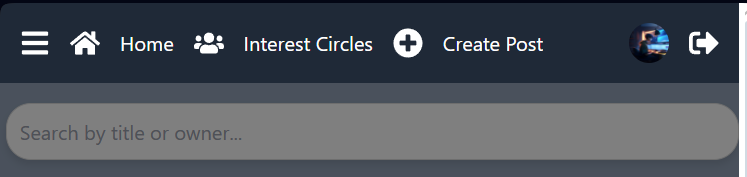
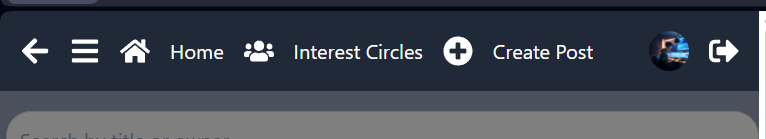
fixed the back button error by adding it to navbar on mobiles

diff --git a/src/components/Sidebar.js b/src/components/Sidebar.js
@@ -1,4 +1,4 @@
-import { useState } from 'react';
+import React, { useState } from 'react';
 import {
   FaUserCircle,
   FaHome,
@@ -8,8 +8,9 @@ import {
   FaSignInAlt,
   FaUserPlus,
   FaPlusCircle,
+  FaArrowLeft, // Back arrow icon for mobile view
 } from 'react-icons/fa';
-import { NavLink } from 'react-router-dom';
+import { NavLink, useHistory } from 'react-router-dom'; 
 import axios from 'axios';
 import useSidebar from '../hooks/useSidebar';
 import { useCurrentUser, useSetCurrentUser } from '../context/CurrentUserContext';
@@ -17,38 +18,57 @@ import LogoutModal from './LogoutModal';
 import styles from '../styles/Sidebar.module.css';
 
 const Sidebar = ({ isOpen = false, isMobile = false }) => {
-  // Manage sidebar open/close and mobile view states using the custom hook
+  // Use custom hook for sidebar state management
   const { isSidebarOpen, toggleSidebar, isMobileView, sidebarRef } = useSidebar(isOpen, isMobile);
 
-  const currentUser = useCurrentUser(); // Get the current user
-  const setCurrentUser = useSetCurrentUser(); // Setter to update the current user state
+  const currentUser = useCurrentUser(); // Get the current user from context
+  const setCurrentUser = useSetCurrentUser(); // Setter to update the current user
   const [isLogoutModalOpen, setIsLogoutModalOpen] = useState(false); // Modal state for logout confirmation
+  const history = useHistory();
 
-  // Handle user sign out
+  /**
+   * Navigate back to the previous page (used on mobile view).
+   */
+  const handleBack = () => {
+    history.goBack();
+  };
+
+  /**
+   * Log the user out of the application and clear the current user context.
+   */
   const handleSignOut = async () => {
     try {
-      await axios.post('dj-rest-auth/logout/'); // API call to log out the user
-      setCurrentUser(null); // Reset current user state
+      await axios.post('dj-rest-auth/logout/');
+      setCurrentUser(null); // Clear current user on successful logout
     } catch (err) {
-      console.error('Logout error:', err); // Log any errors during sign out
+      console.error('Logout error:', err); // Log any errors
     }
   };
 
-  // Confirm logout action
+  /**
+   * Confirm the logout and trigger the logout flow.
+   */
   const handleLogoutConfirm = () => {
     handleSignOut();
-    setIsLogoutModalOpen(false); // Close the modal after logout
+    setIsLogoutModalOpen(false); // Close the logout modal
   };
 
-  const openLogoutModal = () => setIsLogoutModalOpen(true); // Open the logout modal
-  const handleModalClose = () => setIsLogoutModalOpen(false); // Close the logout modal
+  /**
+   * Toggle the logout modal open state.
+   */
+  const openLogoutModal = () => setIsLogoutModalOpen(true);
+  const handleModalClose = () => setIsLogoutModalOpen(false);
 
-  // Close the sidebar when a navigation link is clicked (only in mobile view)
+  /**
+   * Handle closing the sidebar on mobile view when a link is clicked.
+   */
   const handleNavLinkClick = () => {
     if (isMobileView && isSidebarOpen) toggleSidebar();
   };
 
-  // Utility function to render navigation links conditionally
+  /**
+   * Renders a navigation link if the condition is met (e.g., user is authenticated).
+   */
   const renderNavLink = (to, icon, label, condition = true) =>
     condition && (
       <li className="navItem flex items-center justify-center">
@@ -66,7 +86,7 @@ const Sidebar = ({ isOpen = false, isMobile = false }) => {
 
   return (
     <>
-      {/* Overlay for mobile view when sidebar is open */}
+      {/* Sidebar overlay for mobile view */}
       {isSidebarOpen && isMobileView && (
         <div
           onClick={toggleSidebar}
@@ -82,13 +102,20 @@ const Sidebar = ({ isOpen = false, isMobile = false }) => {
           ? 'fixed top-0 left-0 right-0 h-16 flex items-center justify-between'
           : `fixed top-0 right-0 h-screen ${isSidebarOpen ? 'w-64 sidebarOpen' : 'w-16 sidebarClosed'}`}`}
       >
-        {/* Sidebar toggle button */}
         <div className="flex items-center">
+          {/* Back button for mobile view */}
+          {isMobileView && (
+            <button onClick={handleBack} className="text-white mr-4" aria-label="Go back">
+              <FaArrowLeft size={24} />
+            </button>
+          )}
+
+          {/* Toggle sidebar button */}
           <button onClick={toggleSidebar} className="text-white" aria-label={isSidebarOpen ? 'Close sidebar' : 'Open sidebar'}>
             <FaBars size={24} />
           </button>
 
-          {/* Mobile view links when sidebar is open */}
+          {/* Navigation links for mobile view when sidebar is open */}
           {isMobileView && isSidebarOpen && (
             <div className="flex space-x-4 ml-4">
               {renderNavLink('/', <FaHome size={24} />, 'Home')}
@@ -100,18 +127,14 @@ const Sidebar = ({ isOpen = false, isMobile = false }) => {
           )}
         </div>
 
-        {/* Desktop view sidebar content */}
+        {/* Sidebar content for desktop view */}
         {!isMobileView && (
           <div className="flex flex-col items-center mt-8 flex-grow">
             <div className="text-white flex flex-col items-center mb-8">
-              {/* User profile image or icon */}
+              {/* Display user profile information */}
               {currentUser ? (
                 <>
-                  <NavLink
-                    to={`/profile/${currentUser.pk}`}
-                    className="text-white"
-                    aria-label={`Profile of ${currentUser.username}`}
-                  >
+                  <NavLink to={`/profile/${currentUser.pk}`} className="text-white" aria-label={`Profile of ${currentUser.username}`}>
                     {currentUser.profile_image ? (
                       <img
                         src={currentUser.profile_image}
@@ -145,7 +168,6 @@ const Sidebar = ({ isOpen = false, isMobile = false }) => {
         {/* Logout button */}
         {currentUser && (
           <div className={`text-white ${isMobileView ? 'flex items-center space-x-4 ml-auto' : 'absolute bottom-4 left-0 right-0 flex justify-center items-center'}`}>
-            {/* Mobile profile link */}
             {isMobileView && (
               <NavLink to={`/profile/${currentUser.pk}`} aria-label="User Profile">
                 {currentUser.profile_image ? (
@@ -160,7 +182,6 @@ const Sidebar = ({ isOpen = false, isMobile = false }) => {
               </NavLink>
             )}
 
-            {/* Logout button */}
             <button onClick={openLogoutModal} className="flex items-center" aria-label="Logout">
               <FaSignOutAlt size={24} />
               {!isMobileView && isSidebarOpen && <span className="ml-4">Logout</span>}

diff --git a/src/components/BackButton.js b/src/components/BackButton.js
@@ -13,7 +13,7 @@ const BackButton = () => {
   return (
     <button
       onClick={handleBack}
-      className={`${styles.backbtn} fixed top-4 left-4 p-2 bg-blue-600 text-white 
+      className={`${styles.backbtn} fixed top-3 left-4 p-2 bg-blue-600 text-white 
         rounded-full shadow-lg z-50 flex items-center justify-center bg-gray-800`}
       aria-label="Go back"
     >

diff --git a/src/styles/BackButton.module.css b/src/styles/BackButton.module.css
@@ -1,7 +1,7 @@
 .backbtn {
     padding: 10px;
-    boxShadow: 0 2px 4px rgba(0,0,0,0.2)
-}
+    box-shadow: 0 2px 4px rgba(0, 0, 0, 0.2);
+  }
 
 @media (max-width: 765px) {
 

diff --git a/README.md b/README.md
@@ -109,9 +109,8 @@ Tailwind CSS uses PurgeCSS to remove unused styles from the final build, resulti
   - Logged-in users can view the post owner's profile page by clicking on the top of the card.
   - Logged-in users can also like posts directly from the Feed Page. Liked posts will display as "Unliked" with a blue color to indicate their status.
 
-  ![Feed Page](docs/images/)
-  ![Post Card](docs/images/)
-  ![Like Button](docs/images/)
+  ![Feed Page](docs/images/post-list-feat.PNG)
+  ![Post Card](docs/images/post-card-feat.PNG)
 
 - **Profile Page**
   - The Profile Page displays the user's personal information:
@@ -179,7 +178,7 @@ Tailwind CSS uses PurgeCSS to remove unused styles from the final build, resulti
 - **Search Bar**
   - The SearchBar component is a customizable search input that allows users to search based on titles or owner names. It features a clear button that appears when a query is entered, enabling users to quickly reset their search filters.
 
-![Search Bar](docs/images/)
+![Search Bar](docs/images/search-bar-feat.PNG)
 
 - **Go Back Button**
   - The BackButton component is a fixed-position button that allows users to navigate to the previous page in their browser history. It features an arrow icon and is designed to be both accessible and intuitive.
@@ -275,6 +274,7 @@ Tailwind CSS uses PurgeCSS to remove unused styles from the final build, resulti
 6. **Pulling User’s Recent Posts and Likes**: I encountered difficulties retrieving a specific user's recent posts and recent likes for their profile page. Initially, the query was not pulling the correct data, but by creating custom fields in the serializer, I was able to resolve this issue. This approach allowed me to accurately display both recent posts and likes on the profile page, ensuring that the sections worked as intended.
 7. **Pagination on Categories**: Initially, the categories were paginated, and I was limited to displaying only 10 categories. I fixed this by fetching all the categories before rendering the dropdown, ensuring that users could see the full list of categories at once.
 8. **Not Enough Space on Navbar**: On smaller screens, not all icons and text fit in the navbar. To resolve this, I created a media query that hides the text on screens under 530px, ensuring the navbar remains clean and functional on small devices.
+9. **The Default Image For New Profile**: When a user created a new profile the deafult image wouldnt show, Turns out the pathway in the backend was incorrect.
 
 
 ---
@@ -283,7 +283,7 @@ Tailwind CSS uses PurgeCSS to remove unused styles from the final build, resulti
 
 1. **Error Handling for Network Issues**: Need to implement better notifications for lost network connections or server downtime.
 2. **Video Upload Handling**: Video uploads are not yet supported due to difficulties with file size management.
-3. **Go Back Button**: Although functional, it still requires further adjustments to improve usability on smaller screens. Additionally, the back button pushes back through all previous pages, including forms, instead of stopping at the home page. This can cause the user to continue navigating back farther than expected.
+3. **Go Back Button**: Although functional, it still requires further adjustments to improve usability on smaller screens, for now on smaller screen I put it in the navbar. Additionally, the back button pushes back through all previous pages, including forms, instead of stopping at the home page. This can cause the user to continue navigating back farther than expected.
 4. **The Sort Order of Chats**: The chat function was difficult to implement correctly, particularly with loading messages in the right order (starting from the bottom with older messages above). Currently, the chat loads at the top and scrolls to the bottom, which may cause a poor user experience in chats with many users.
 5. **Circle Name Visibility in Chats**: When entering a chat with no messages, the circle name does not show until a message is sent. This can confuse users as they may not immediately recognize which circle they are in.
 6. **401 Unauthorized Error for manifest.json**: The manifest.json file should be publicly accessible, but it is currently returning a 401 error, indicating that authentication is required to access it. This needs to be fixed by ensuring the file is served publicly.
